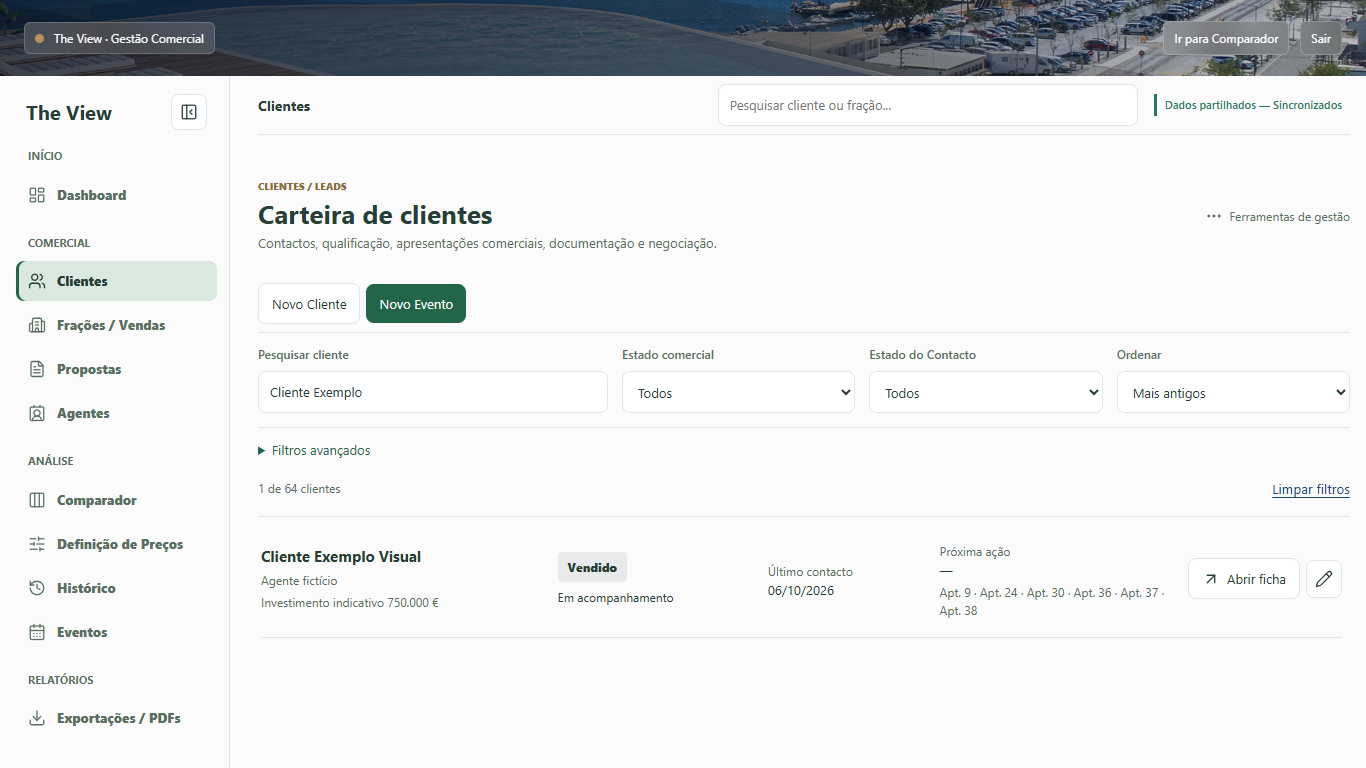
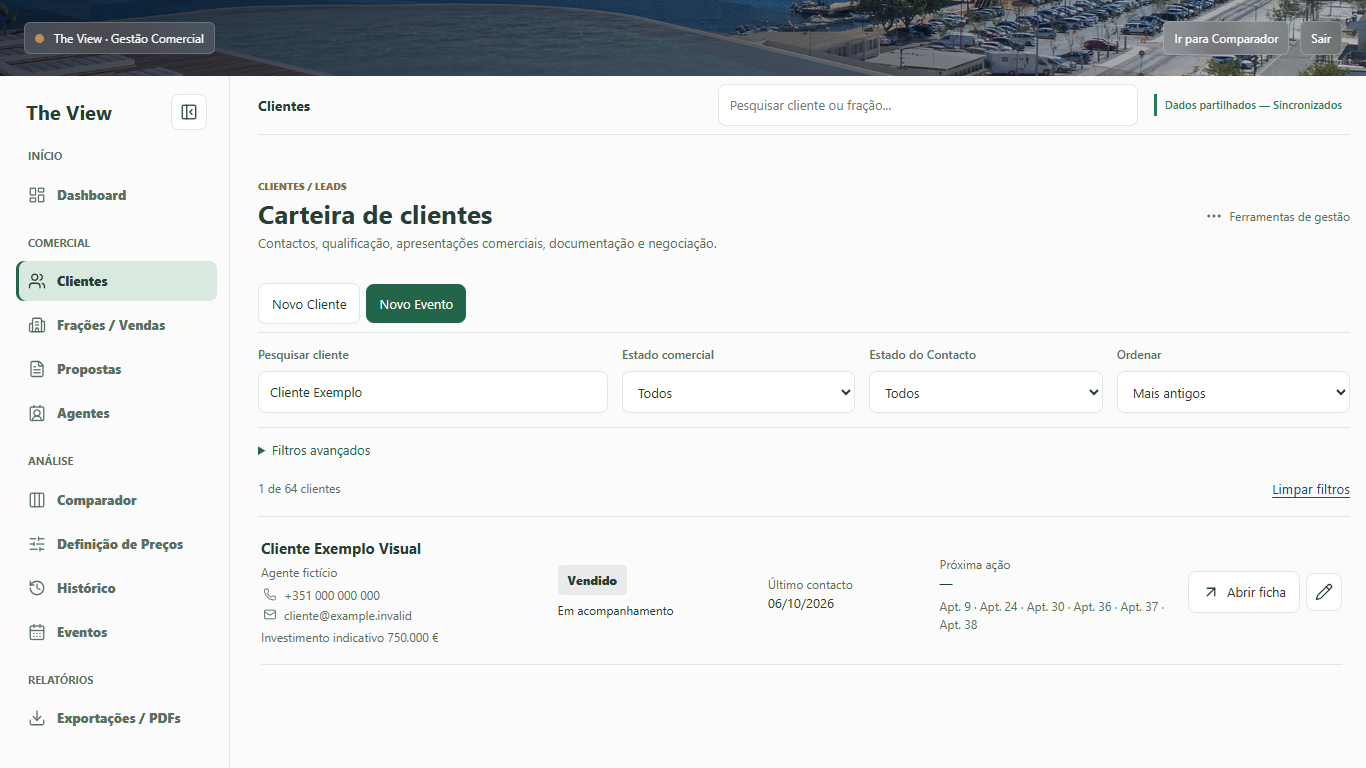
Fix global event client selection and show portfolio contacts

diff --git a/commercial.js b/commercial.js
@@ -1802,7 +1802,11 @@ function renderCompareToolbar(fractions){
   toolbar.innerHTML=`<div class="ux-compare-selection">${fractions.map(f=>`<button class="ux-selection-chip" type="button" data-ux-compare-remove="${f.number}" aria-label="Remover ${attr(f.name)} da comparação">Apt. ${f.number} <span aria-hidden="true">×</span></button>`).join('')}</div><div class="top-actions"><button class="primary-button" type="button" data-ux-export="comparison-proposal" ${fractions.length?'':'disabled'}>${uxIcon('file-text')}Gerar apresentação</button><details class="ux-export-menu"><summary>${uxIcon('download')}Exportar</summary><div><button class="ghost-button" type="button" data-ux-export="comparison-proposal">Proposta Cliente</button><button class="ghost-button" type="button" data-ux-export="comparison-price-list">Lista de Preços</button></div></details></div>`;
   renderUxIcons();
 }
-function renderClientSelects(){const opts=state.data.clients.map(c=>[c.id,c.name||'Cliente sem nome']);fillMulti(el.selectedClient,opts);fillMulti(el.eventClientId,opts);if(!state.selectedClientId&&state.data.clients[0])state.selectedClientId=state.data.clients[0].id;el.selectedClient.value=state.selectedClientId;el.eventClientId.value=state.selectedClientId;}
+function renderClientSelects(){const eventClient=el.eventModal&&!el.eventModal.classList.contains('hidden')?el.eventClientId.value:null;const opts=state.data.clients.map(c=>[c.id,c.name||'Cliente sem nome']);fillMulti(el.selectedClient,opts);fillMulti(el.eventClientId,[['','Selecione um cliente'],...opts]);if(!state.selectedClientId&&state.data.clients[0])state.selectedClientId=state.data.clients[0].id;el.selectedClient.value=state.selectedClientId;el.eventClientId.value=eventClient??state.selectedClientId;}
+function clientPortfolioContactMarkup(c){
+  const phone=safe(c.phone),email=safe(c.email),number=normalizedPhone(phone);
+  return phone||email?`<div class="client-portfolio-contacts">${phone?`<a href="tel:${phone.startsWith('+')?'+':''}${attr(number)}" aria-label="Telefonar para ${attr(c.name||'cliente')}">${uxIcon('phone')}<span>${esc(phone)}</span></a>`:''}${email?`<a href="mailto:${attr(email)}" aria-label="Enviar email a ${attr(c.name||'cliente')}">${uxIcon('mail')}<span>${esc(email)}</span></a>`:''}</div>`:'';
+}
 function renderClients(){
   ensurePortfolioFilters();
   const ui=window.THE_VIEW_CLIENT_WORKSPACE;
@@ -1819,9 +1823,9 @@ function renderClients(){
   el.clientsList.classList.add('client-portfolio-list');el.clientsList.closest('.panel')?.classList.add('client-portfolio-panel');
   el.clientsList.innerHTML=cs.length?cs.map(c=>{
     const row=contactRows.get(c.id),followup=actions.get(c.id),agentId=ui.associatedAgentId(c,state.data.agents),linked=agentId?agent(agentId):null,related=relatedClientFractions(c);
-    return`<article class="client-portfolio-row ${row?.state==='Resposta nossa pendente'?'ux-contact-pending':''}" data-client="${attr(c.id)}"><div class="client-portfolio-identity"><strong>${row?.priority?`<span class="ux-client-priority" title="Cliente prioritário">${uxIcon('star')}</span>`:''}${esc(c.name||'Cliente sem nome')}</strong><span>${esc(linked?.name||clientOriginLabel(c)||'Origem não informada')}</span>${c.budget?`<small>Investimento indicativo ${displayMoney(c.budget)}</small>`:''}</div><div class="client-portfolio-state"><span class="badge badge--neutral">${esc(normalizeClientStage(c.stage))}</span><span>${esc(row?.state||'Sem contacto registado')}</span></div><div class="client-portfolio-contact"><small>Último contacto</small><span>${row?.lastContact?esc(formatCommercialDate(row.lastContact)):'Sem contacto registado'}</span></div><div class="client-portfolio-action"><small>Próxima ação</small><span>${esc(followup?.step||(followup?.date?'Contactar':'—'))}</span>${followup?.date?`<time>${esc(formatCommercialDate(followup.date))}</time>`:''}${related.length?`<small>${esc(related.map(f=>'Apt. '+f.number).join(' · '))}</small>`:''}</div><div class="client-portfolio-commands"><button class="ghost-button" type="button" data-open-profile="${attr(c.id)}">${uxIcon('arrow-up-right')}Abrir ficha</button><button class="ghost-button ux-icon-button" type="button" data-edit-client-card="${attr(c.id)}" aria-label="Editar ${attr(c.name||'cliente')}" title="Editar cliente">${uxIcon('pencil')}</button></div></article>`;
+    return`<article class="client-portfolio-row ${row?.state==='Resposta nossa pendente'?'ux-contact-pending':''}" data-client="${attr(c.id)}"><div class="client-portfolio-identity"><strong>${row?.priority?`<span class="ux-client-priority" title="Cliente prioritário">${uxIcon('star')}</span>`:''}${esc(c.name||'Cliente sem nome')}</strong><span>${esc(linked?.name||clientOriginLabel(c)||'Origem não informada')}</span>${clientPortfolioContactMarkup(c)}${c.budget?`<small>Investimento indicativo ${displayMoney(c.budget)}</small>`:''}</div><div class="client-portfolio-state"><span class="badge badge--neutral">${esc(normalizeClientStage(c.stage))}</span><span>${esc(row?.state||'Sem contacto registado')}</span></div><div class="client-portfolio-contact"><small>Último contacto</small><span>${row?.lastContact?esc(formatCommercialDate(row.lastContact)):'Sem contacto registado'}</span></div><div class="client-portfolio-action"><small>Próxima ação</small><span>${esc(followup?.step||(followup?.date?'Contactar':'—'))}</span>${followup?.date?`<time>${esc(formatCommercialDate(followup.date))}</time>`:''}${related.length?`<small>${esc(related.map(f=>'Apt. '+f.number).join(' · '))}</small>`:''}</div><div class="client-portfolio-commands"><button class="ghost-button" type="button" data-open-profile="${attr(c.id)}">${uxIcon('arrow-up-right')}Abrir ficha</button><button class="ghost-button ux-icon-button" type="button" data-edit-client-card="${attr(c.id)}" aria-label="Editar ${attr(c.name||'cliente')}" title="Editar cliente">${uxIcon('pencil')}</button></div></article>`;
   }).join(''):`<div class="empty-state"><strong>${state.data.clients.length?'Nenhum cliente encontrado':'Nenhum cliente registado'}</strong><p>${state.data.clients.length?'Não existem clientes que correspondam aos filtros.':'Crie o primeiro cliente para iniciar o acompanhamento.'}</p><button class="ghost-button" type="button" data-ux-client-list="${state.data.clients.length?'clear':'new'}">${state.data.clients.length?'Limpar filtros':'Criar cliente'}</button></div>`;
-  el.clientsList.querySelectorAll('[data-client]').forEach(card=>{card.onclick=e=>{if(e.target.closest('[data-edit-client-card]'))return;openClientProfile(card.dataset.client)};});
+  el.clientsList.querySelectorAll('[data-client]').forEach(card=>{card.onclick=e=>{if(e.target.closest('[data-edit-client-card],a'))return;openClientProfile(card.dataset.client)};});
   el.clientsList.querySelectorAll('[data-edit-client-card]').forEach(btn=>btn.onclick=e=>{e.stopPropagation();state.selectedClientId=btn.dataset.editClientCard;el.selectedClient.value=state.selectedClientId;openClientModal(state.selectedClientId)});
   let results=document.getElementById('clientFilterSummary');if(!results){results=document.createElement('div');results.id='clientFilterSummary';results.className='ux-filter-status';el.clientSearch.closest('.filters-grid').after(results)}
   results.innerHTML=`<span>${cs.length} de ${state.data.clients.length} clientes</span>${s||st!=='all'||commercialUx.clientFocus||[state.cf.agent,state.cf.contact,state.cf.priority].some(value=>value&&value!=='all')?'<button class="ux-text-button" type="button" data-ux-client-list="clear">Limpar filtros</button>':''}${commercialUx.clientFocus?'<span class="ux-filter-chip">Próximos follow-ups</span>':''}`;
@@ -3539,7 +3543,7 @@ function openEventModal(eventId='',source=''){
   if(eventId&&!ev){notifyUser('Não encontrei esse evento. Atualize a página e tente novamente.','Evento comercial');return}
   state.editingEventId=ev?.id||'';
   state.eventEditSource=source||'';
-  el.eventClientId.value=ev?(ev.clientId||''):(state.selectedClientId||'');
+  el.eventClientId.value=ev?(ev.clientId||''):(source==='client'?state.selectedClientId||'':'');
   el.eventType.innerHTML=EVENT_TYPES.map(type=>`<option>${esc(type)}</option>`).join('');
   if(ev?.type&&![...el.eventType.options].some(option=>option.value===ev.type))el.eventType.add(new Option(ev.type,ev.type));
   el.eventType.value=ev?(ev.type||'Outro'):'Pedido de informação recebido';

diff --git a/commercial-client-workspace.css b/commercial-client-workspace.css
@@ -9,6 +9,7 @@
   .client-portfolio-row:hover{background:var(--panel2)}.client-portfolio-row>div{min-width:0}
   .client-portfolio-row :is(strong,span,small,time){overflow-wrap:anywhere}.client-portfolio-identity>strong{display:block;font-size:15px;line-height:1.4}
   .client-portfolio-identity>span,.client-portfolio-row small{display:block;color:var(--muted);font-size:12px;line-height:1.5;margin-top:4px}
+  .client-portfolio-contacts{display:flex;flex-wrap:wrap;gap:2px 12px;margin-top:5px;min-width:0}.client-portfolio-contacts>a{display:inline-flex;align-items:flex-start;gap:5px;min-width:0;max-width:100%;color:var(--muted);font-size:12px;line-height:1.5;text-decoration:none}.client-portfolio-contacts>a:hover{text-decoration:underline;color:var(--brand)}.client-portfolio-contacts svg{width:13px;height:13px;flex-shrink:0;margin-top:2px}.client-portfolio-contacts span{min-width:0;overflow-wrap:anywhere}
   .client-portfolio-state>span{display:block;font-size:12px;line-height:1.5}.client-portfolio-state>.badge{display:inline-flex;margin-bottom:6px}
   .client-portfolio-contact>span,.client-portfolio-action>span,.client-portfolio-action>time{display:block;font-size:13px;line-height:1.5}
   .client-portfolio-action>time{color:var(--brand);font-size:12px}.client-portfolio-commands{display:flex;gap:6px;align-items:center;justify-content:flex-end}.client-portfolio-commands>button{white-space:nowrap}

diff --git a/CLIENT_AGENT_WORKSPACE.md b/CLIENT_AGENT_WORKSPACE.md
@@ -87,8 +87,23 @@ Ficheiros funcionais: `commercial.js`, `commercial.html`, novo modulo
 alteracoes sao testes, adaptacoes de fixtures/seletores e esta documentacao.
 
 Sem migracao ou mudanca do esquema comercial. Sem merge ou deployment.
-Publicacao da branch e criacao de uma unica PR para `main` aguardam o fluxo do
-GitHub Desktop escolhido pelo utilizador. Nao aprovar/publicar sem revisao visual.
+A branch corresponde a [PR #13](https://github.com/Algarp2026/dashboard-imobiliario/pull/13),
+aberta para `main`. Nao fazer merge nem publicar sem autorizacao.
+
+## Ajustes finais da auditoria da PR #13
+
+- Novo Evento global abre com opcao vazia, mesmo depois de consultar um cliente.
+  Apenas a origem explicita `client` pre-seleciona o cliente da ficha; edicoes
+  continuam a usar o cliente do evento. Atualizar os seletores com um formulario
+  aberto preserva a escolha atual, incluindo a escolha vazia.
+- Validacao existente bloqueia guardar eventos que exigem cliente sem escolha.
+  Nao foram alteradas regras de reservas, vendas, comissoes ou persistencia.
+- Telefone e email compactos na identificacao da carteira, com links tel/mailto
+  e quebra responsiva. Clicar num contacto nao abre tambem a ficha.
+- `tests/client-workspace-audit.mjs`: desktop/mobile, abrir A/fechar/criar evento
+  vazio, rejeicao sem cliente sem gravacao, selecao de B, evento unico apenas em
+  B, refresh e preservacao de A e restantes dados comerciais. Escritas apenas
+  no backend ficticio em memoria. Capturas especificas na galeria.
 
 ## Reproduzir localmente
 

diff --git a/docs/client-agent-workspace/README.md b/docs/client-agent-workspace/README.md
@@ -5,6 +5,17 @@ password ou contacto de producao. Base anterior: `5d2c91f`.
 
 ## Antes e depois
 
+### Ajustes finais da PR #13
+
+| Vista | Contactos compactos na carteira | Novo Evento sem cliente selecionado |
+|---|---|---|
+| Desktop | [Ver](desktop-portfolio-contacts.png) | [Ver](desktop-new-event-unassigned.png) |
+| Mobile | [Ver](mobile-portfolio-contacts.png) | [Ver](mobile-new-event-unassigned.png) |
+
+Capturas adicionais de `tests/client-workspace-audit.mjs`, sem dados reais.
+
+### Comparacao com a base
+
 | Vista | Antes | Depois |
 |---|---|---|
 | Carteira desktop | [Anterior](before-desktop-portfolio.png) | [Nova carteira](desktop-portfolio.png) |
